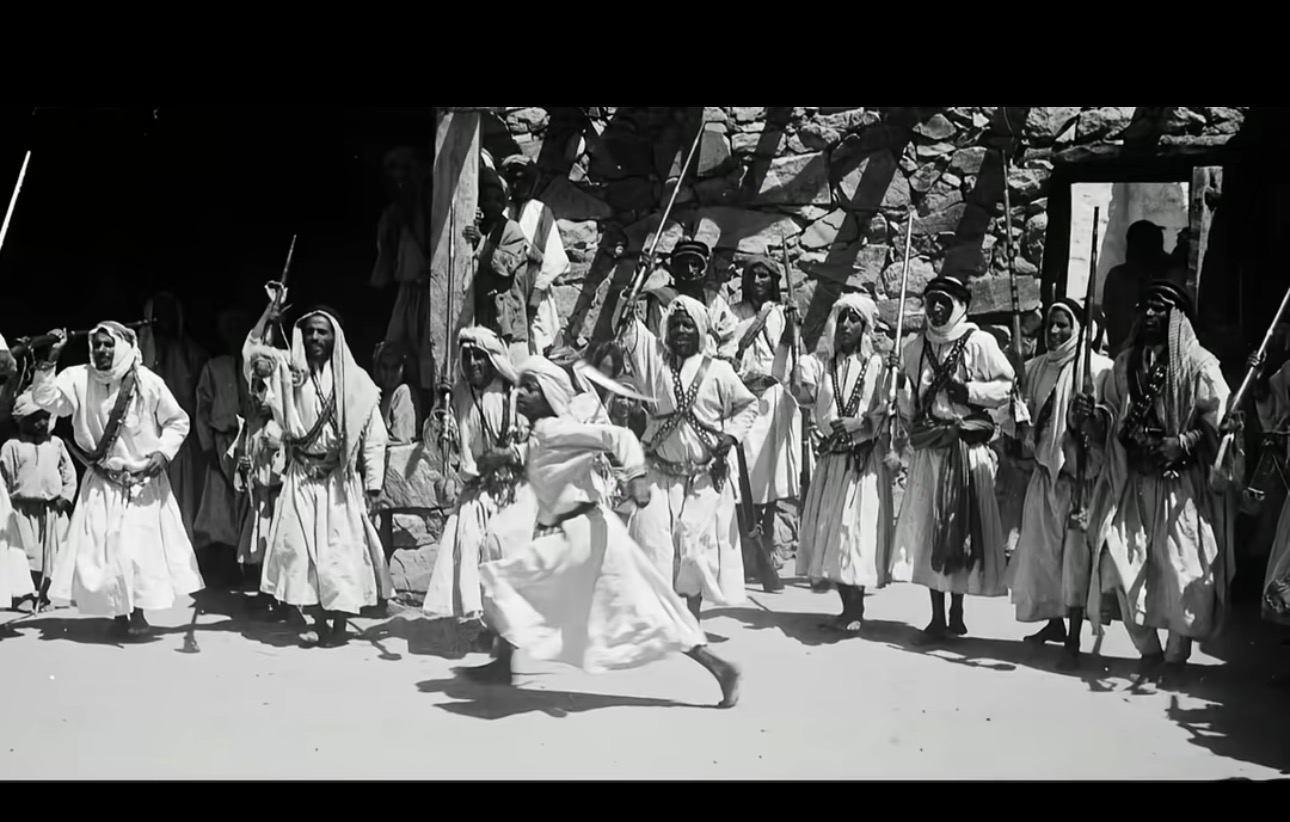
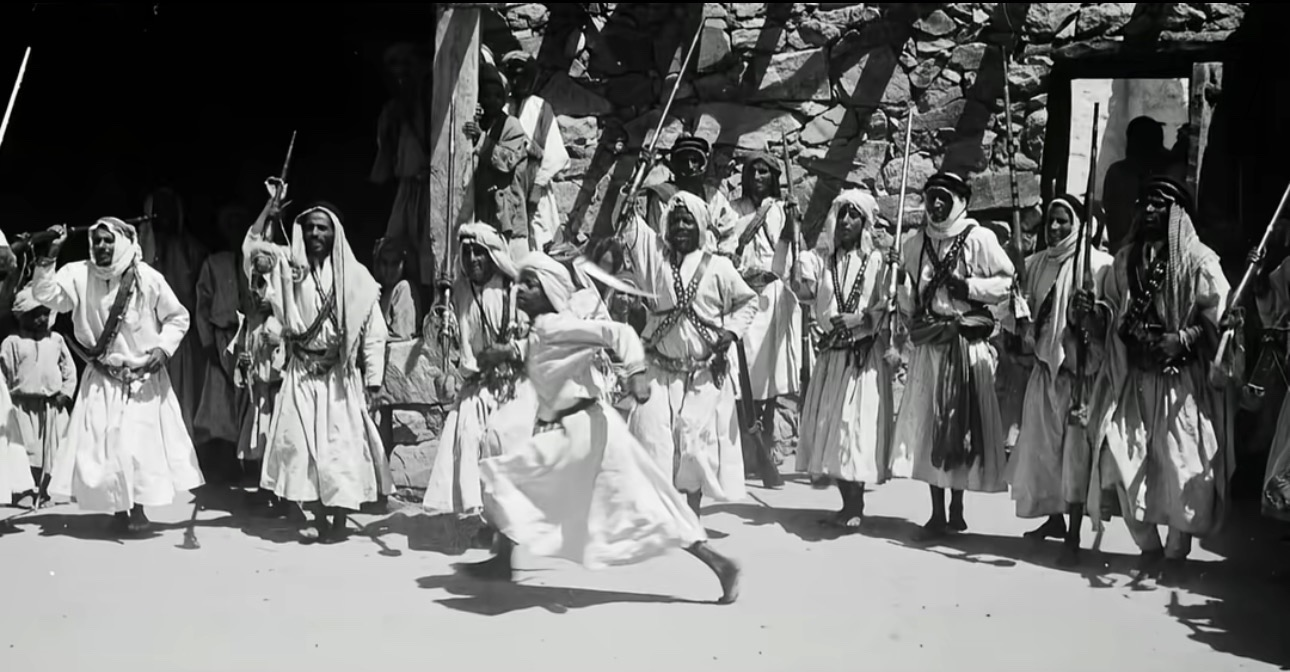
Add files via upload
Update cropped heritage images and restore sources image

diff --git a/sources.html b/sources.html
@@ -13,6 +13,6 @@
 <body>
 <header class="site-header"><div class="container site-header__inner"><a class="brand" href="index.html"><strong>قبائل الشعفين من بلاد بني شهر</strong><span>موسوعة أولية لتوثيق القبائل والأنساب والسير</span></a><nav class="nav"><a class="" href="index.html">الرئيسية</a><a class="" href="shuafin.html">عن الشعفين</a><a class="" href="tribes.html">القبائل</a><a class="" href="notables.html">الأعلام</a><a class="active" href="sources.html">المصادر</a></nav></div></header>
 <main class="page-enter">
-<section class="tribe-page-hero"><div class="container"><div class="tribe-feature fade-on-scroll"><div class="tribe-feature__media"><img src="sources-archive.jpeg" alt="صورة تراثية من المنطقة"></div><div class="tribe-feature__copy"><h1 class="page-title">المصادر</h1><p>تُجمع هنا لاحقًا الكتب والروايات الشفوية والوثائق والصور التي يعتمد عليها الموقع، مع التفريق بين المادة المكتوبة والمرويات الشفهية والمواد البصرية.</p></div></div></div></section>
+<section class="tribe-page-hero"><div class="container"><div class="tribe-feature fade-on-scroll"><div class="tribe-feature__media"><img src="sources-hero.jpeg" alt="مشهد جبلي من بلاد الشعفين"></div><div class="tribe-feature__copy"><h1 class="page-title">المصادر</h1><p>تُجمع هنا لاحقًا الكتب والروايات الشفوية والوثائق والصور التي يعتمد عليها الموقع، مع التفريق بين المادة المكتوبة والمرويات الشفهية والمواد البصرية.</p></div></div></div></section>
 <section class="section"><div class="container columns"><div class="panel fade-on-scroll"><h3>مصادر مكتوبة</h3><p>مثل الكتب، والمقالات، والوثائق، وما يُنقل من المراجع المحلية والتاريخية.</p></div><div class="panel fade-on-scroll"><h3>روايات شفوية</h3><p>ما يُروى عن كبار السن والرواة وأهل المعرفة من أبناء القبائل، مع تحرير الصياغة وإثباتها في موضعها المناسب.</p></div></div></section>
 </main><footer class="site-footer"><div class="container">قبائل الشعفين من بلاد بني شهر — نسخة أولية قابلة للتطوير.</div></footer></body></html>

diff --git a/shuafin.html b/shuafin.html
@@ -58,7 +58,7 @@
       <p>وللتدليل على شيوع اسم آل يزيد في الماضي، يُستشهد بما قاله الشاعر عامر بن رحاح من بلحصين في سبت تنومة سنة 1341هـ بعد عودة العوامر من غزوة مترك:</p>
       <div class="poem-block"><div>سلام على الشيخ وعلى بني يزيد</div><div>وعليك يا السبت وعلى من حضر</div><div>من شاعر من هو على القاله يزيد</div><div>حنا العوامر إلى دي النظر</div></div>
     </div>
-    <div class="history-image fade-on-scroll"><img src="sources-archive.jpeg" alt="صورة تراثية من المنطقة"></div>
+    <div class="history-image fade-on-scroll"><img src="sources-archive.jpeg" alt="مشهد تراثي من رجال المنطقة"></div>
   </div>
 </section>
 <section class="section">
@@ -67,7 +67,7 @@
       <h3>أهم الجبال والمواضع</h3>
       <p>من المواضع التي ورد ذكرها في المادة المحلية عن بلاد الشعفين: جبل عيسى غرب قرى آل مروح، وجبل بطنان شمال غرب بطنان، وجبل لمع رعدان الواقع وسط تنومة، ويعد حاجزًا طبيعيًا بين تنومة العليا والسفلى، وحوله طريقا عقبة آل زخران شرقًا وخرق ابن السميح غربًا. كما يُذكر جبل جلالة المشرف على المحفار، وجبل عبدالله الواقع غرب تنومة والمشرف على أغوار تهامة، ويُذكر أيضًا صدر أول بوصفه من أشهر المواضع في المنطقة.</p>
     </div>
-    <div class="history-image fade-on-scroll"><img src="shuafin-heritage.png" alt="مشهد تراثي من المنطقة"></div>
+    <div class="history-image fade-on-scroll"><img src="shuafin-heritage.png" alt="مشهد تاريخي من رجال المنطقة"></div>
   </div>
 </section>
 <section class="section">
